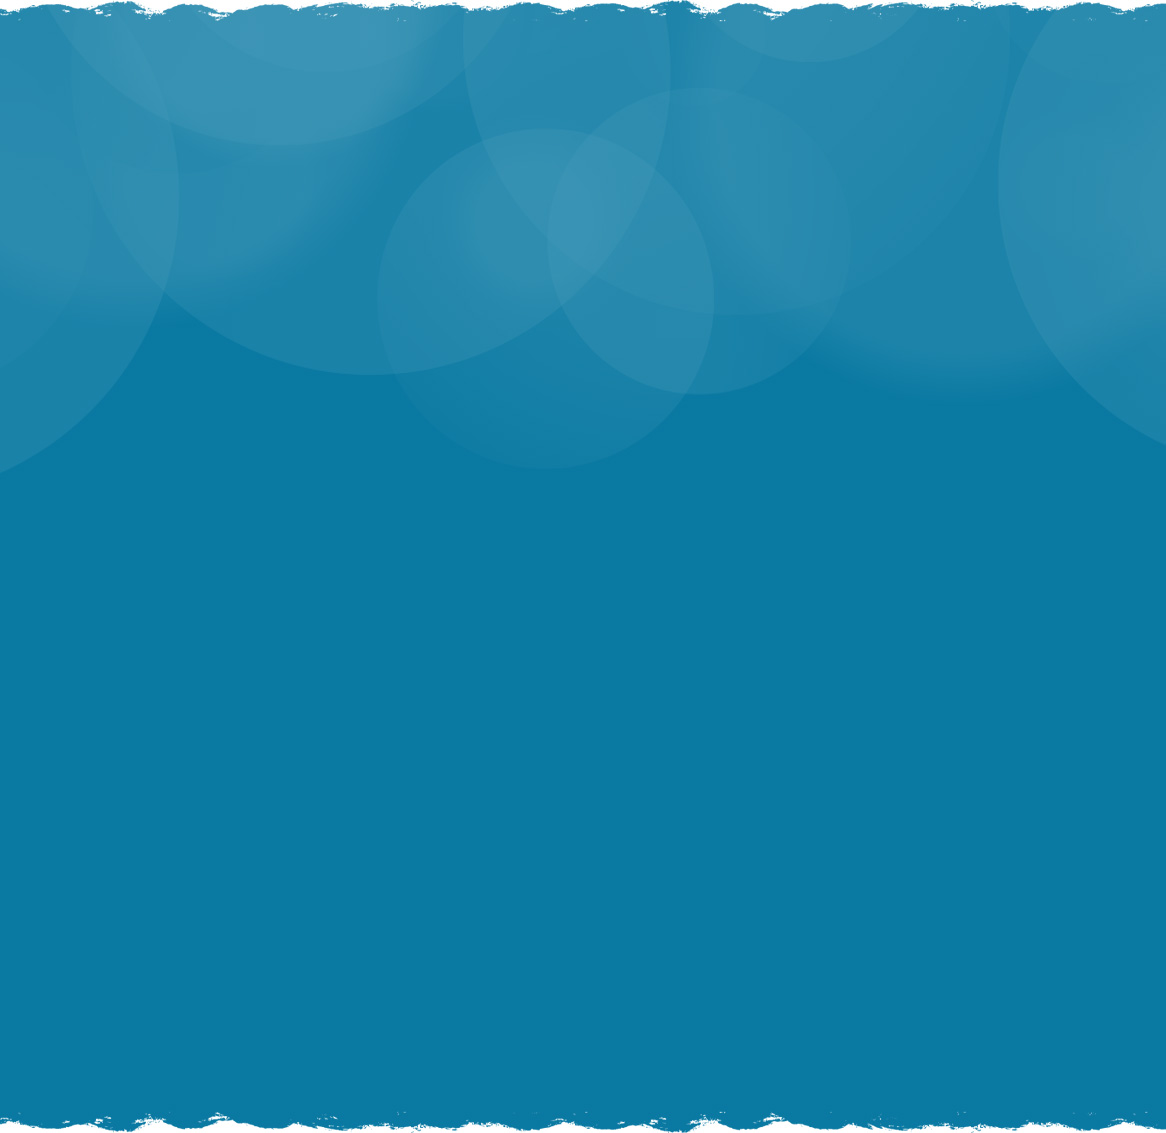
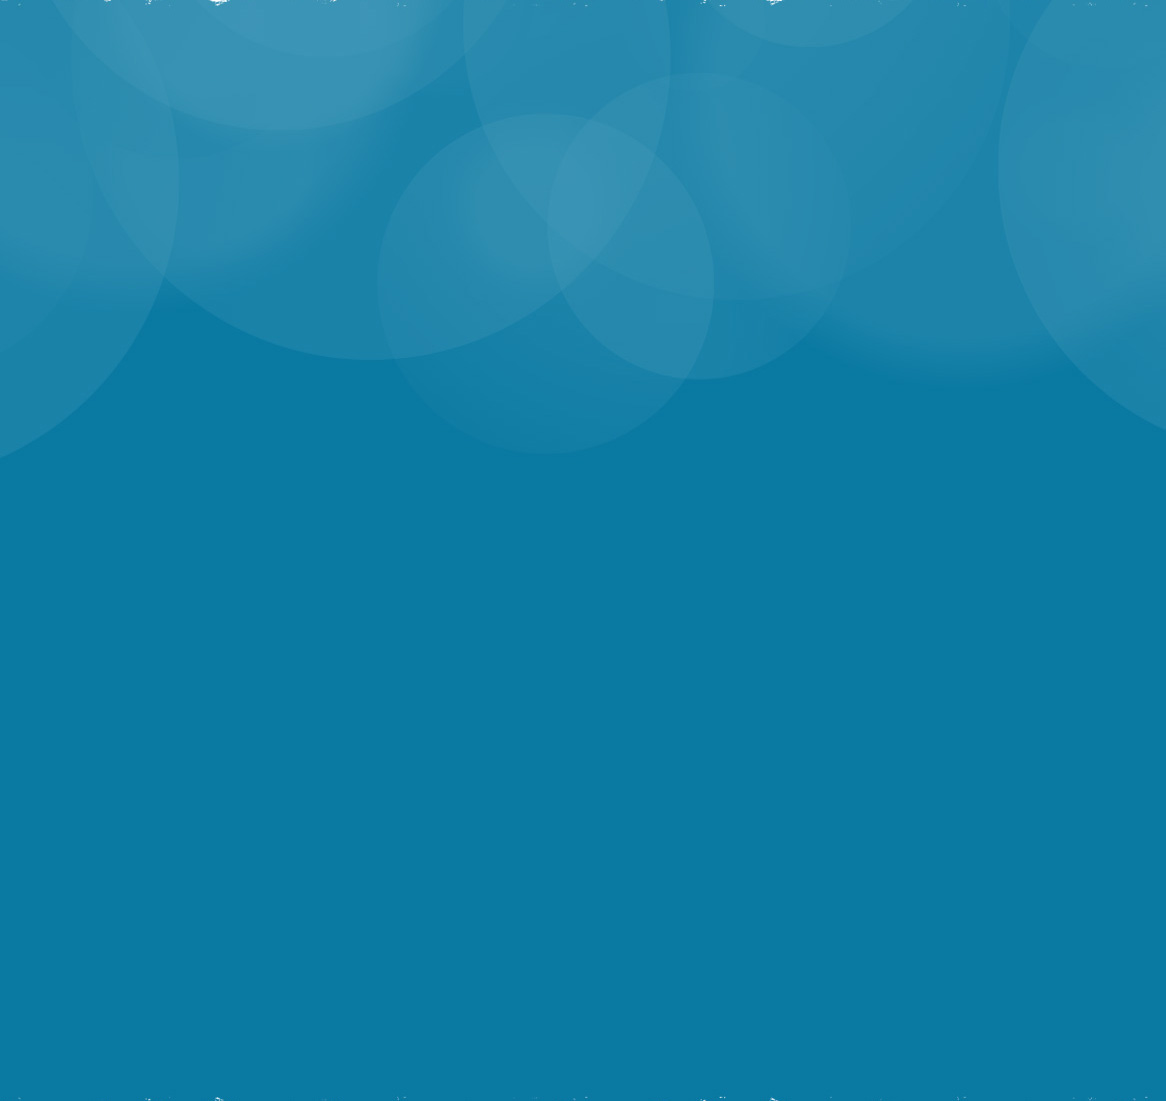
responsive checking

Changed region(s): [[0.0, 0.9882, 1.0, 1.0], [0.0, 0.0, 1.0, 0.0309]]

diff --git a/style-2.css b/style-2.css
@@ -10,6 +10,7 @@ pos-powerful-sec
     background-position: center!important;
     background-repeat: repeat-x!important;
     color: #fff;
+    position: relative;
 }
 .pos-powerful-sec .out-stock-sec-hdr h2{
 	margin-bottom: 10px;
@@ -58,7 +59,7 @@ yacon-root-sec-wrp
     overflow: hidden;
 }
 .yacon-root-headding {
-    padding: 40px 0 25px;
+    padding: 40px 15px 25px;
     background-repeat: no-repeat !important;
     background-size: 100% 100% !important;
     background-position: center center !important;
@@ -114,6 +115,34 @@ paired-root-sec-wrp
 */
 .paired-root-sec-wrp {
     padding-top: 60px;
+    position: relative;
+}
+.pos-powerful-sec:before,
+.paired-root-sec-wrp:before{
+    content: "";
+    position: absolute;
+    left: 0;
+    right: 0;
+    top: -1px;
+    background: url(assets/images/stock-out-sec-bg-top.jpg);
+    background-repeat: repeat-x;
+    height: 13px;
+    z-index: 2;
+}
+.pos-powerful-sec:after,
+.paired-root-sec-wrp:after{
+    content: "";
+    position: absolute;
+    left: 0;
+    right: 0;
+    bottom: -1px;
+    background: url(assets/images/stock-out-sec-bg-btm.jpg);
+    background-repeat: repeat-x;
+    height: 25px;
+    z-index: 2;
+}
+.paired-root-sec-wrp:after{
+	background: url(assets/images/stock-out-sec-bg-btm-2.jpg);
 }
 .paired-root-sec-wrp .rare-root-feature-wrp{
 	padding-left: 15px;
@@ -246,4 +275,144 @@ result-show-sec-wrp
     font-size: 22px;
     line-height: 26px;
     padding-top: 5px;
+}
+
+@media(max-width: 1199px){
+	.pos-powerful-sec .out-stock-sec-hdr h2 br{
+		display: none;
+	}
+	.ye-title-headding h2{
+		font-size: 40px;
+		line-height: 44px;
+	}
+	.yacon-root-headding h2 br,
+	.ye-title-headding h2 br{
+		display: none;
+	}
+	.yacon-root-headding h2{
+		font-size: 36px;
+		line-height: 46px;
+	}
+}
+ 
+
+@media(max-width: 991px){
+	.pos-powerful-sec .out-stock-sec-hdr h2 {
+	    font-size: 32px;
+	    line-height: 36px;
+	}
+	.ye-title-headding h2{
+		font-size: 32px;
+		line-height: 40px;
+	}
+	.ye-flt-rgt-img {
+	    float: none !important;
+	    text-align: center;
+	}
+	.ye-microbiome-sec-wrp .ye-two-grid-rgt-img {
+	    padding-top: 10px;
+	    padding-left: 0;
+	    padding-bottom: 30px;
+	}
+	.yacon-root-headding h2{
+		font-size: 32px;
+		line-height: 44px;
+	}
+	.yacon-root-content-wrp .ye-two-grid-rgt-img {
+	    padding-left: 0;
+	    text-align: center;
+	    padding-bottom: 30px;
+	}
+	.yacon-root-content-wrp .ye-two-grid-rgt-dsc {
+	    padding-right: 15px;
+	    padding-left: 15px;
+	}
+
+
+	
+
+}
+
+@media (max-width:830px){
+    
+
+}
+
+@media(max-width: 767px){
+	.pos-powerful-sec {
+	    padding-top: 50px;
+	    padding-bottom: 40px;
+	}
+	.pos-powerful-sec .out-stock-sec-hdr h2 {
+	    font-size: 28px;
+	    line-height: 34px;
+	}
+	.ye-title-headding h2{
+		font-size: 30px;
+		line-height: 38px;
+	}
+	.ye-microbiome-sec-wrp {
+	    padding-top: 50px;
+	    padding-bottom: 20px;
+	}
+	.yacon-root-headding h2{
+		font-size: 28px;
+		line-height: 40px;
+	}
+	.yacon-root-headding {
+	    padding: 25px 15px 20px;
+	}
+	.yacon-root-content{
+		padding: 20px 15px 0 !important;
+	}
+	.ye-two-grid-rgt-dsc ul li{
+		font-size: 18px;
+		line-height: 22px;
+		padding-bottom: 10px;
+		padding-left: 45px;
+	}
+	.ye-two-grid-rgt-img{
+		padding-left: 15px !important;
+		padding-right: 15px !important;
+	}
+	.prd-tp-50{
+		margin-bottom: 30px;
+	}
+}
+
+
+
+@media(max-width: 639px){
+       
+}
+ 
+
+
+@media(max-width: 575px){
+    
+}
+
+
+@media(max-width:479px) {
+    .pos-powerful-sec .out-stock-sec-hdr h2 {
+	    font-size: 24px;
+	    line-height: 28px;
+	}
+	.yacon-root-headding h2{
+		font-size: 24px;
+		line-height: 30px;
+	}
+	.ye-title-headding h2{
+		font-size: 24px;
+		line-height: 30px;
+	}
+	.ye-two-grid-rgt-dsc ul li{
+		font-size: 17px;
+		line-height: 21px;
+		padding-left: 40px;
+	}
+}
+
+@media(max-width: 359px){
+    
 }

diff --git a/index-2.html b/index-2.html
@@ -56,15 +56,16 @@
         </div>
     </div>
     <div class="row">
-      <div class="col-sm-6">
+      <div class="col-md-6 col-sm-12">
         <div class="text-center out-stock-sec-grd-img-1">
           <img class="lazy"  data-src="assets/images/pos-powerful-grid-img.png">
         </div>
       </div>
-      <div class="col-sm-6">
+      <div class="col-md-6 col-sm-12">
         <div class="dft-text-module">
-          <div class="dft-multiline-bg dst-ml-15">
-            <p>That’s because FOS is what is known as a <span class="lazy" data-src="assets/images/text-line-bg-lg.png">non-digestible fiber…</span></p>
+          <div class="dft-multiline-bg">
+            <p>That’s because FOS is what is known as a</p>
+            <p><span class="lazy dst-ml-15" data-src="assets/images/text-line-bg-lg.png">non-digestible fiber…</span></p>
           </div>
           <p>Which is actually a good thing!</p>
           <p>Your gut needs non-digestible fiber like FOS…</p>
@@ -104,12 +105,12 @@
         </div>
       </div>
       <div class="row smfullwidth">
-        <div class="col-sm-6 ye-flt-rgt-img">
+        <div class="col-md-6 col-sm-12 ye-flt-rgt-img">
           <div class="ye-two-grid-rgt-img">
             <img class="lazy" alt="A lazy image 1" data-src="assets/images/ye-two-grid-lft-img-1.jpg">
           </div>
         </div>
-        <div class="col-sm-6">
+        <div class="col-md-6 col-sm-12">
           <div class="hh-two-grid-rgt-dsc">
             <p>Which is why yacon root works so well with Structured Silver.</p>
             <p>You see, Structured Silver is like the Army who comes in to wipe out the insurgent bad gut bacteria…</p>
@@ -141,12 +142,12 @@
               <p>Yacon Root…</p>
             </div>
             <div class="row">
-              <div class="col-sm-6">
+              <div class="col-md-6 col-sm-12">
                 <div class="ye-two-grid-rgt-img">
                   <img class="lazy" alt="A lazy image 1" data-src="assets/images/ye-two-grid-lft-img-2.jpg">
                 </div>
               </div>
-              <div class="col-sm-6">
+              <div class="col-md-6 col-sm-12">
                 <div class="ye-two-grid-rgt-dsc">
                   <ul>
                     <li class="lazy" data-bg="url(assets/images/ye-advanced-des-inc.jpg)">Eliminates Constipation from food, medication, and stress </li>

diff --git a/common.css b/common.css
@@ -264,6 +264,10 @@ h5 {
         padding-left: 0!important;
         padding-right: 0!important
     }
+    .plr-15 {
+        padding-left: 0!important;
+        padding-right: 0!important
+    }
     .plr-10 {
         padding-left: 0!important;
         padding-right: 0!important
